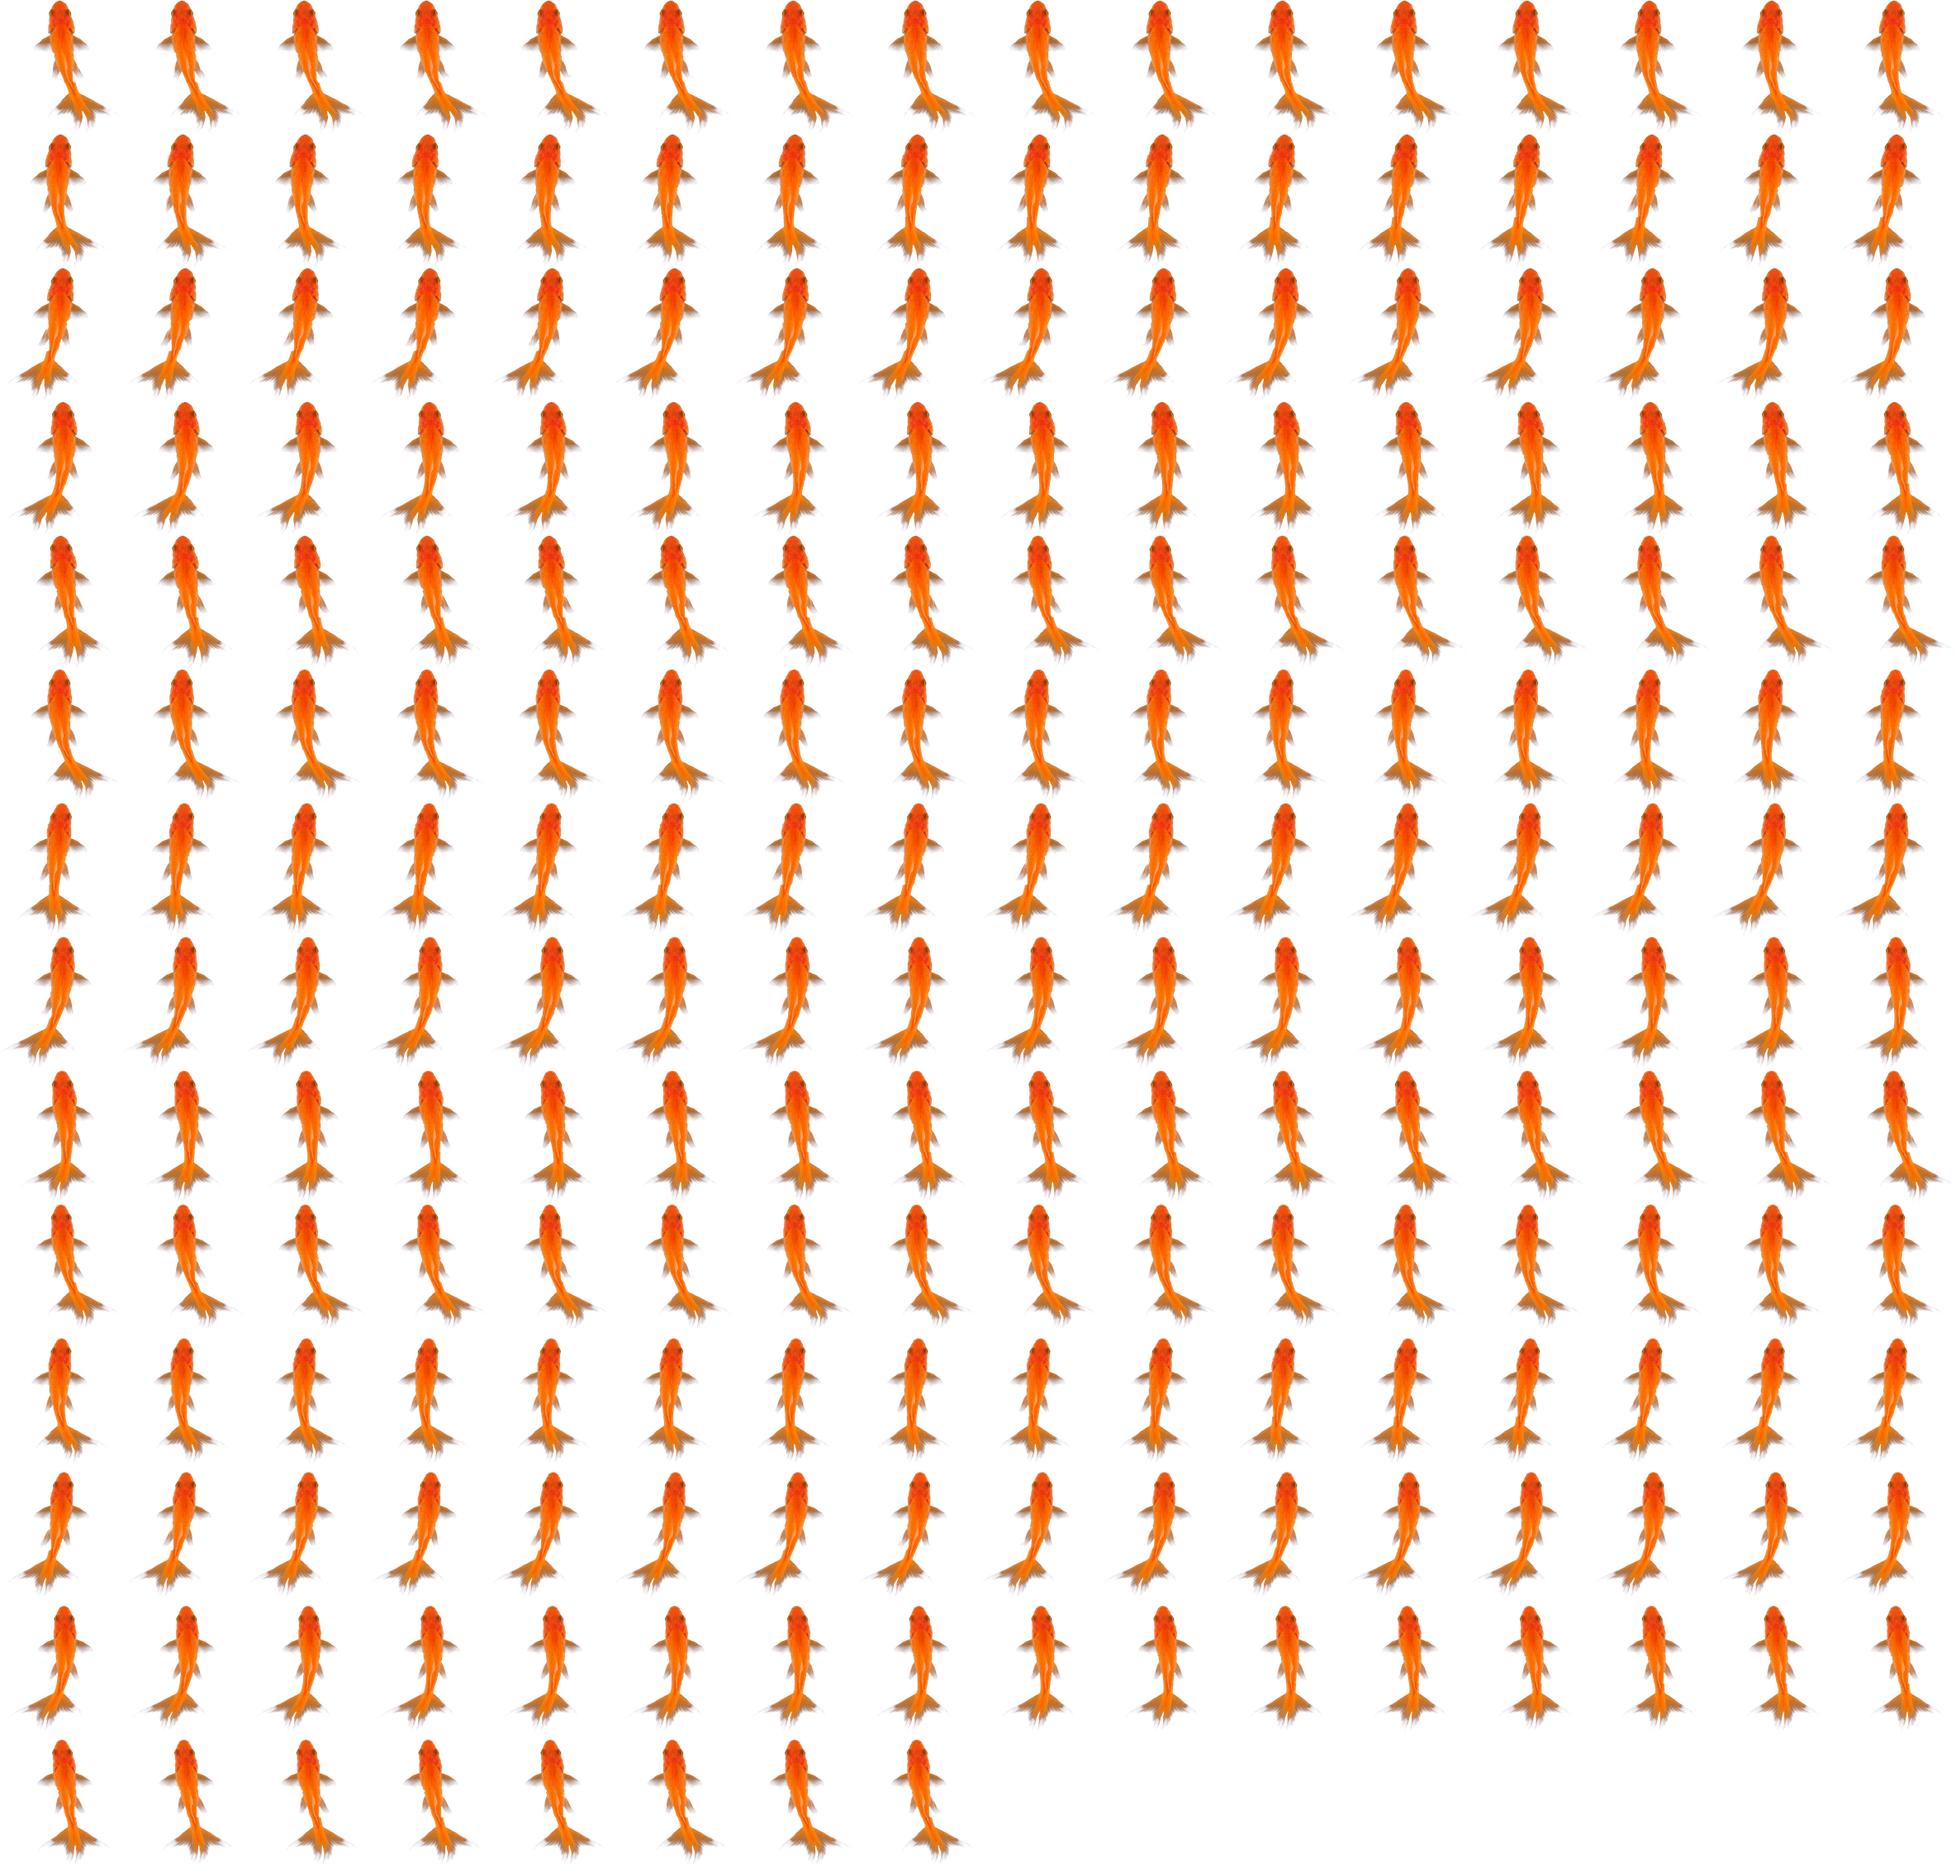
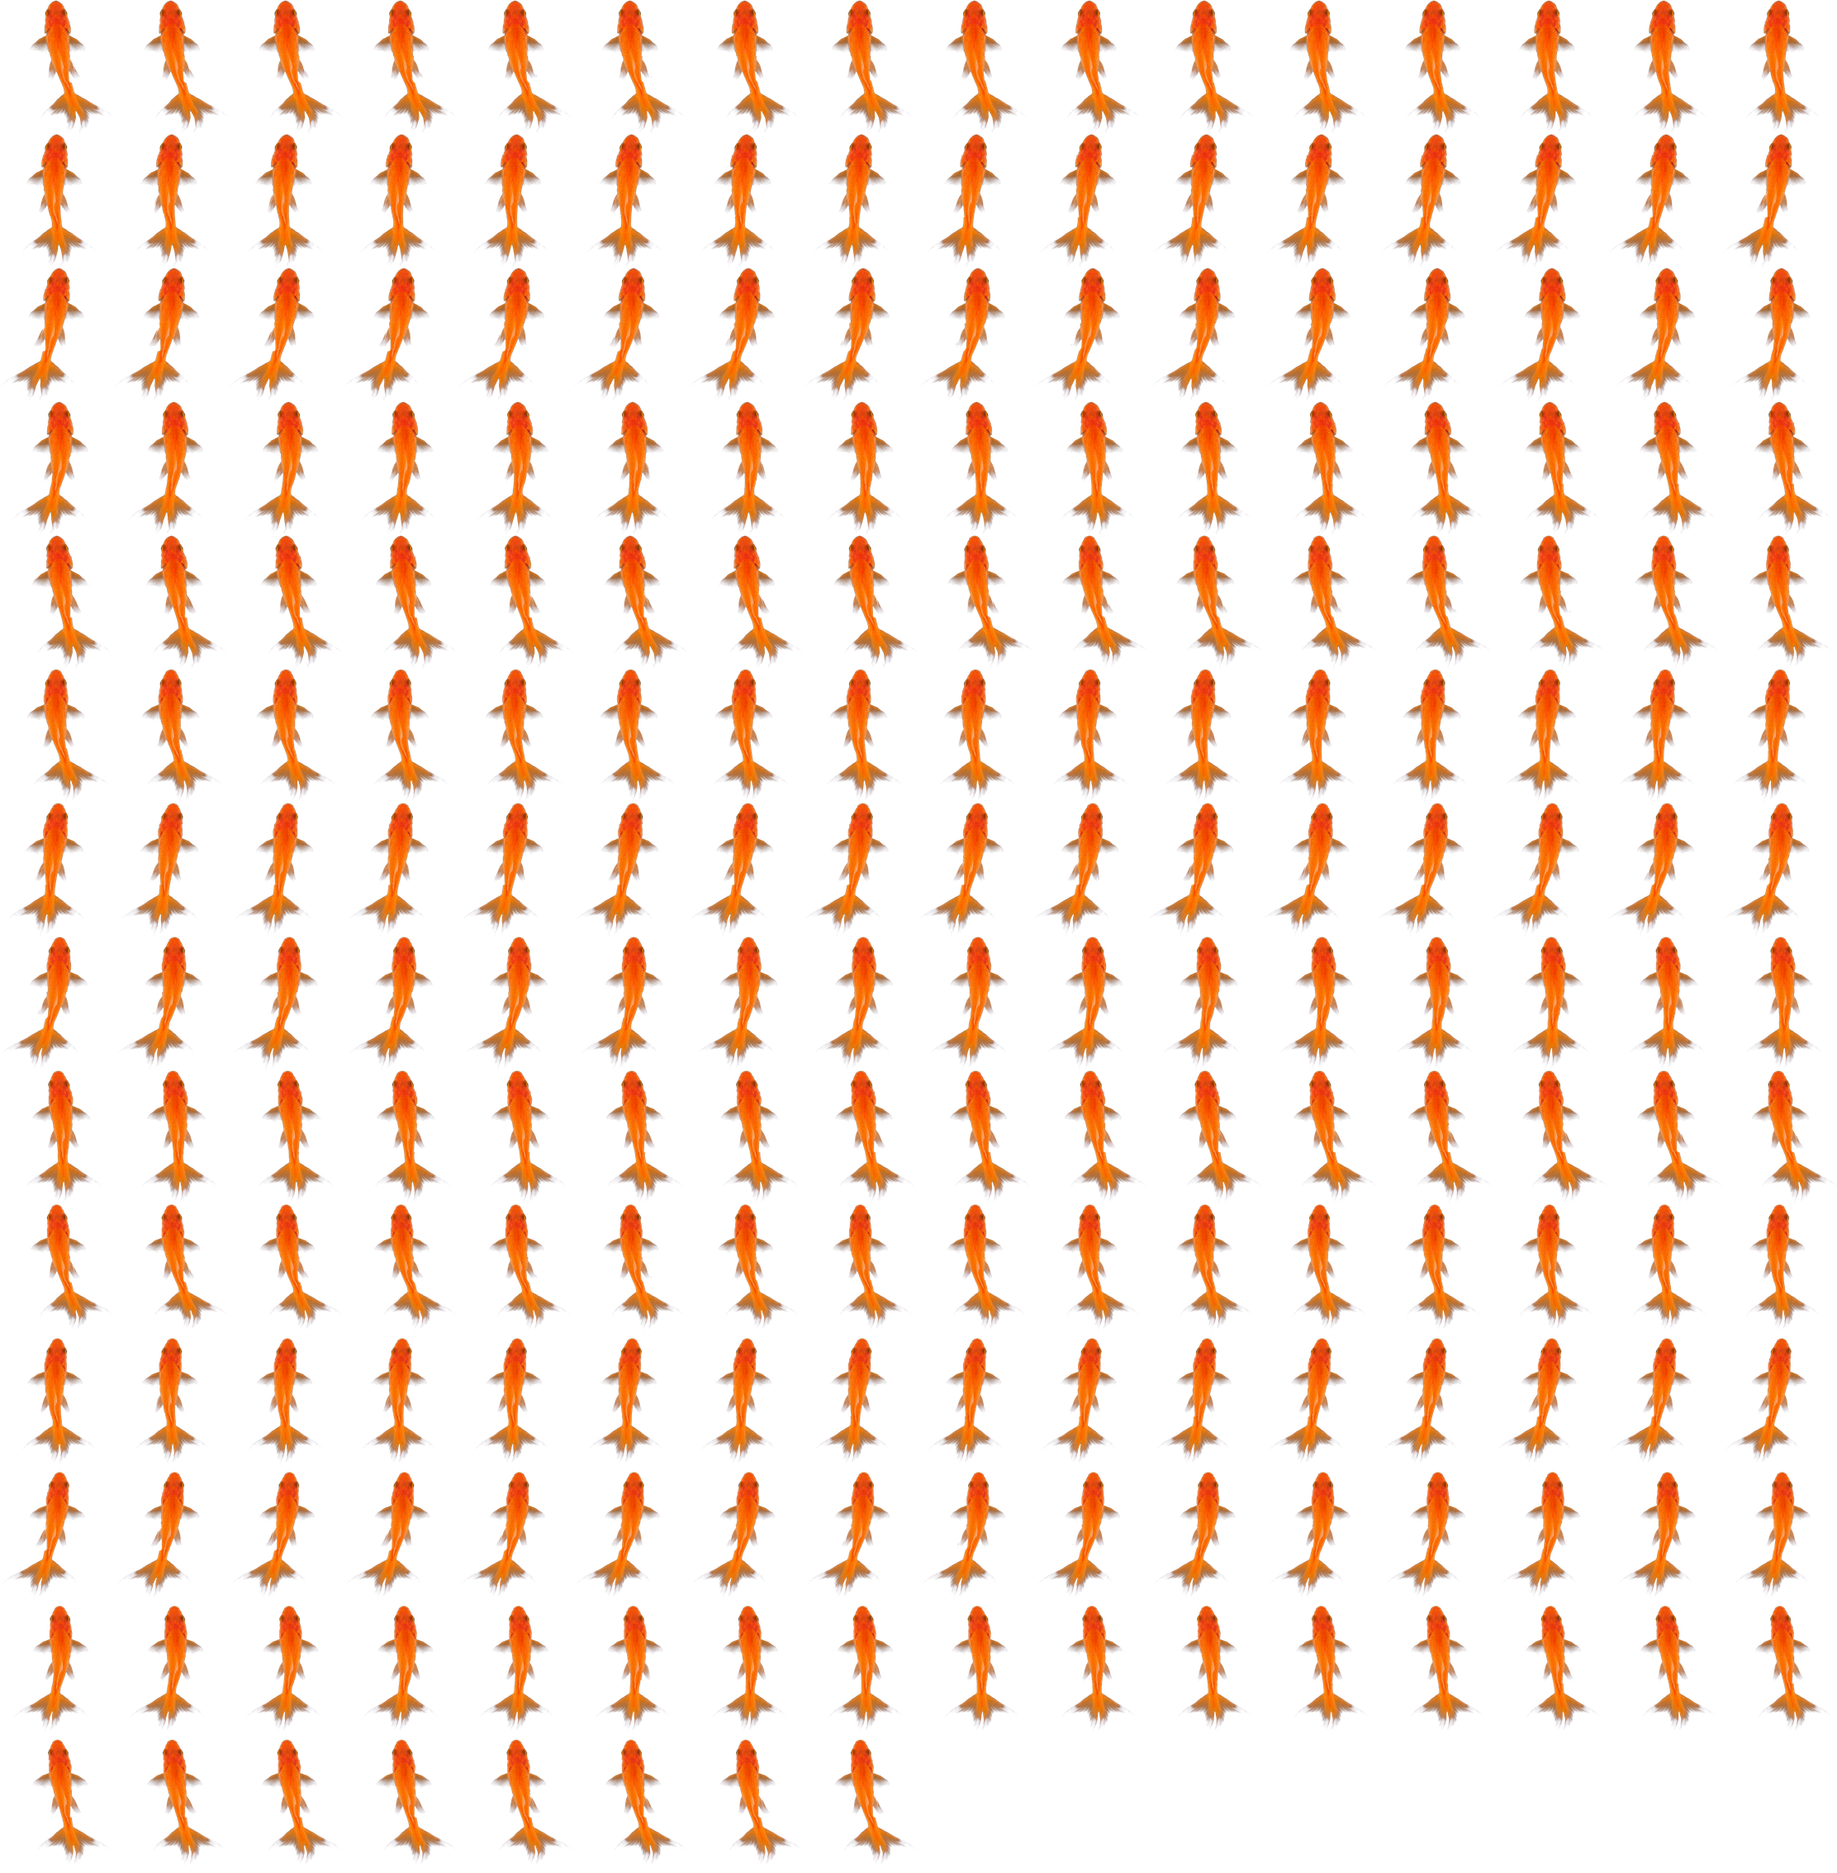
07 금붕어 꼬리 찢어짐 수정: 부채꼴 꼬리 위상 전단 → 꼬리자루(t~0.66) 이하 응집 스윙 (ASSET_VER=38, v=82)

diff --git a/07_water_trace_goldfish/app.js b/07_water_trace_goldfish/app.js
@@ -27,7 +27,7 @@
   // 배경 데이터 절대 경로 = fractal_capture 폴더 (bg_build.py 가 assets/bg/ 로 최적화 복사 +
   //   assets/bg-manifest.json 생성). 앱은 매니페스트의 모든 이미지를 이름순 크로스페이드 재생.
   //   동영상(manifest.videos)은 V 키로 영상 배경 토글.  bg 갱신 시 BG_VER 올려 캐시 무효화.
-  const ASSET_VER = "37";   // 금붕어 gen_cycle 재빌드(xfade 한쪽휨/랩스킵 수정)
+  const ASSET_VER = "38";   // 꼬리 팬 응집(위상 전단 찢어짐 수정)
   const BG_VER = "4";
   let SLIDE_HOLD_MS = 0;               // 각 장면 추가 표시 시간(▲/▼ 방향키 ±1초, 기본 0초)
   const SLIDE_FADE_MS = 1600;          // 크로스페이드 시간

diff --git a/07_water_trace_goldfish/index.html b/07_water_trace_goldfish/index.html
@@ -102,6 +102,6 @@
   })();
   </script>
 
-  <script src="app.js?v=81"></script>
+  <script src="app.js?v=82"></script>
 </body>
 </html>
